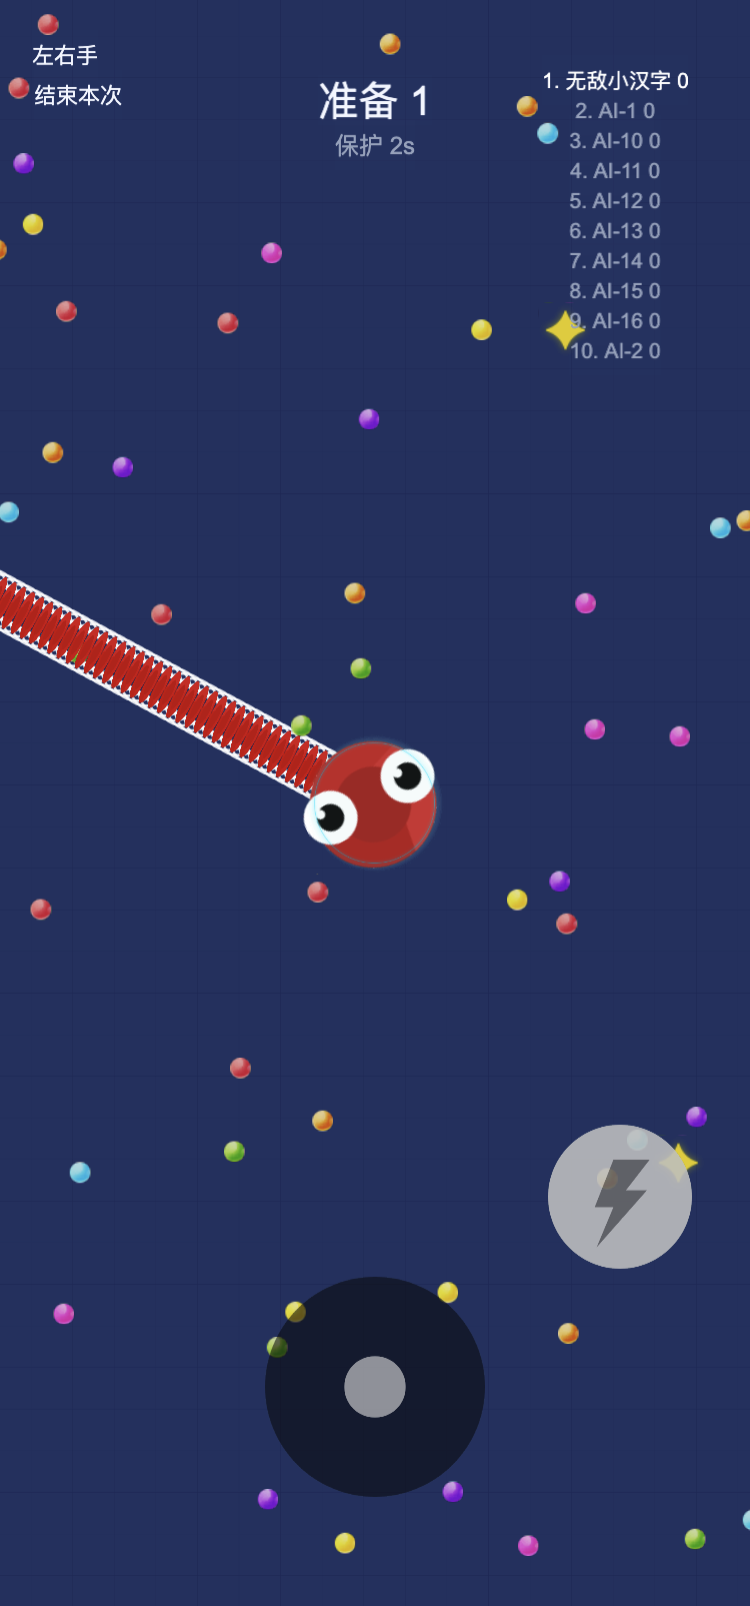
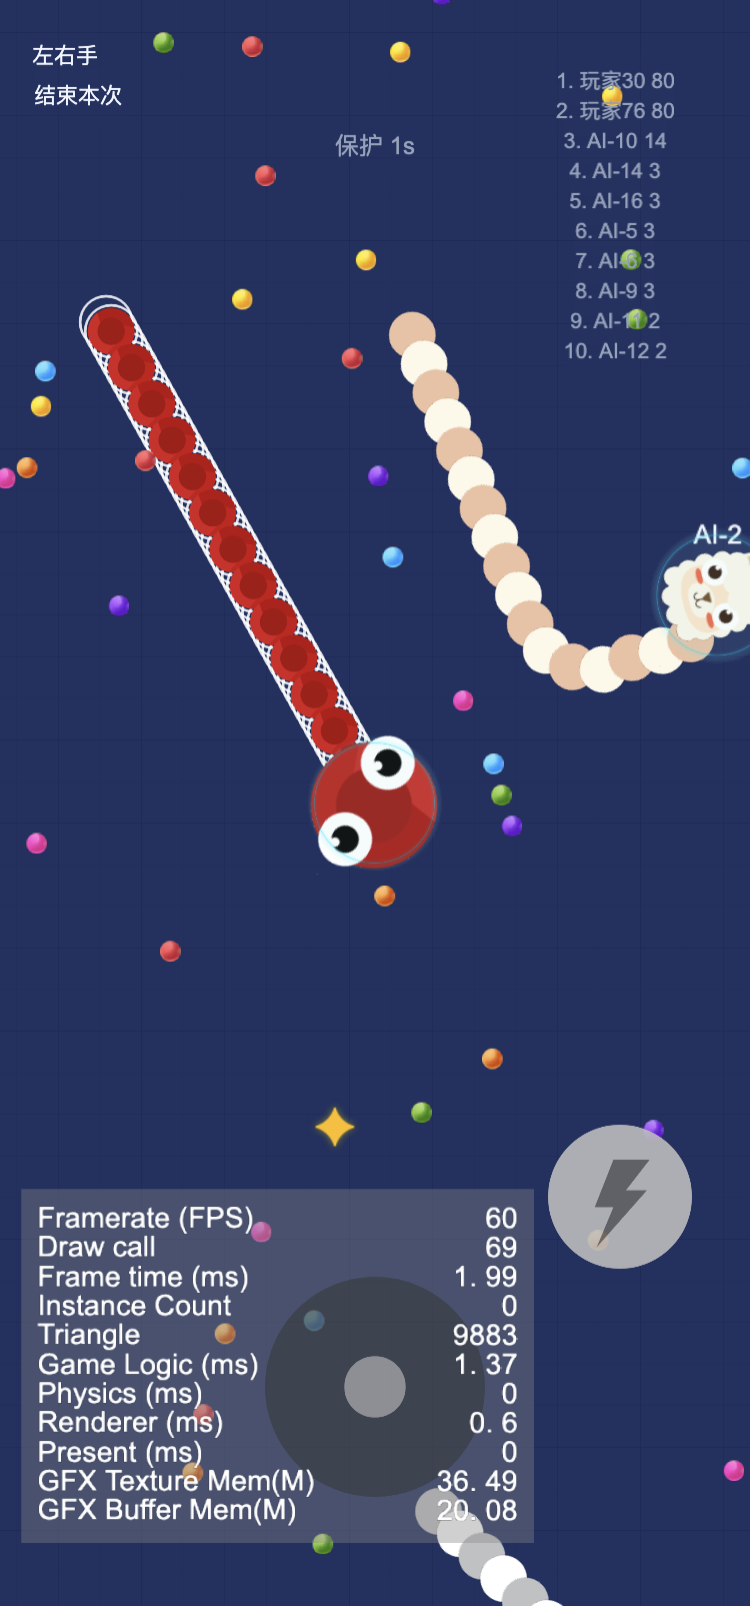
文档：F10/F11/F12 真机验证结案 + 登记 Creator 在非启动卷上的取证限制
真机确认（Creator 3.8.8，证据重拍进 06-battle.png）：自机与 AI 蛇身均为离散重叠圆点、
弯道处逐点旋转正确、白齿消失；自机有细白轮廓而 AI 无，与目录 identity 声明一致；头与身体
色调一致（F11）；战斗期控制台零告警。
运行时判据：出生瞬间蛇身网格 48 顶点 = 12 个四边形，与目录算得的
floor((51 - firstBodyPointDistance) / repeatedBodyPointDistance) + 1 = 12 吻合
（旧几何是 204 顶点 = 51 个 = initialPointCount - 1）。GFX Buffer Mem 由 56.31M 降至 20.08M。

⚠ 同批登记一条环境限制：本仓在 /Volumes/KimData 非启动卷，Creator 的资源监听收不到该卷的
文件变更——原子替换与浏览器硬重载实测均无效，必须手动重开 Creator 才会重新导入与编译。
⛔ 别把「改完预览没变」当成修复无效；先用运行时判据确认跑的是哪一版。本轮就因此白验了一轮。

diff --git a/docs/s/README.md b/docs/s/README.md
@@ -194,7 +194,7 @@ shared 继续保持零依赖，客户端 View/Logic 与 FairyGUI 动态加载边
 | S3-0 | `[已完成]` | `89b9b03`（漂移订正）+ 本次（拍板回写） | 建档基线 `verify:all` exit 0：client 423/423、server 541/541、FGUI 66/66、inventory 14 能力/5 入口（2026-09-05 实测于 `f262be1`；README §8 上面各行的 384/499 等计数是钉在各自 commit 的历史值，不代表 HEAD） | 不适用（纯文档订正与拍板登记） | A=服务端单方面权威、B=B2a+B0、C=① 离房重进（§9.1）；剩余待决项 §9.6 不阻塞 S3-1 |
 | S3 | `[已拍板·待实施]` | — | — | — | 内存先记；同一 HASH 镜像衣柜字段 |
 | S4 | `[已拍板·待实施]` | — | — | — | 内存同步奖励；同一 HASH 镜像养成字段 |
-| S5 | `[进行中]` | 本次 | S5-01 候选已冻结；S5-02 `verify:all` exit 0（client 436/436、server 609/609、FGUI 66/66、inventory 110/110） | Creator 3.8.8 预览首跑完成，8 张证据见 `evidence/s5/creator/`；⛔ 真栈 int 仍未跑 | S5-05 首跑修复 F1（`SpriteFrame.pivot` 只读赋值废掉整条资源装载链）与 F2/F3/F4（`UIMeshRenderer` 无渲染组件 + 静态网格 + `builtin-ui` effect 不存在，三者叠加使蛇身/食物网格零渲染）；F10（蛇身几何改为原作的离散重叠精灵）与 F11（ACES 色调映射导致身体与头色差）亦已修，⚠ 两者的真引擎目视验证待 Creator 刷新后补；F5～F8 未修；⛔ 不得据此宣称 demo 可放行 |
+| S5 | `[进行中]` | 本次 | S5-01 候选已冻结；S5-02 `verify:all` exit 0（client 436/436、server 609/609、FGUI 66/66、inventory 110/110） | Creator 3.8.8 预览首跑完成，8 张证据见 `evidence/s5/creator/`；⛔ 真栈 int 仍未跑 | S5-05 首跑修复 F1（`SpriteFrame.pivot` 只读赋值废掉整条资源装载链）与 F2/F3/F4（`UIMeshRenderer` 无渲染组件 + 静态网格 + `builtin-ui` effect 不存在，三者叠加使蛇身/食物网格零渲染）；F10（蛇身几何改为原作的离散重叠精灵）、F11（ACES 色调映射致身体与头色差）与 F12（`updateSubMesh` 不同步 InputAssembler，绘制量永不收缩）亦已修，六条均已真机验证；F5～F8 未修；⛔ 不得据此宣称 demo 可放行 |
 
 内部 demo 口径只能在 S5 全部退出条件满足并经用户确认后使用：
 
